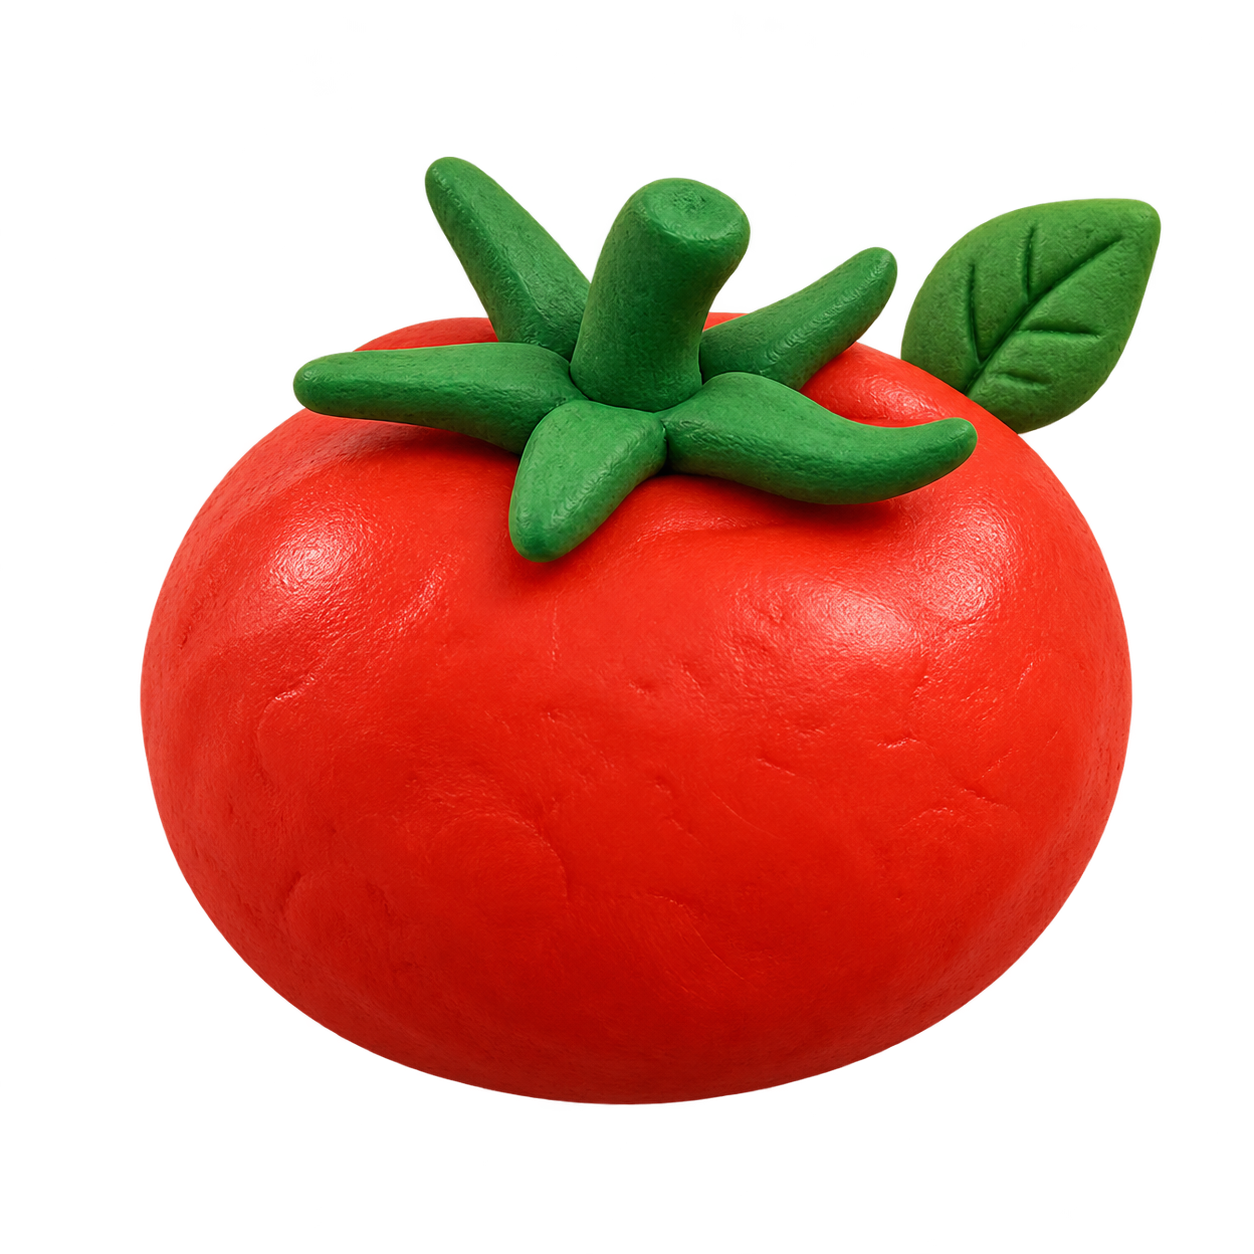
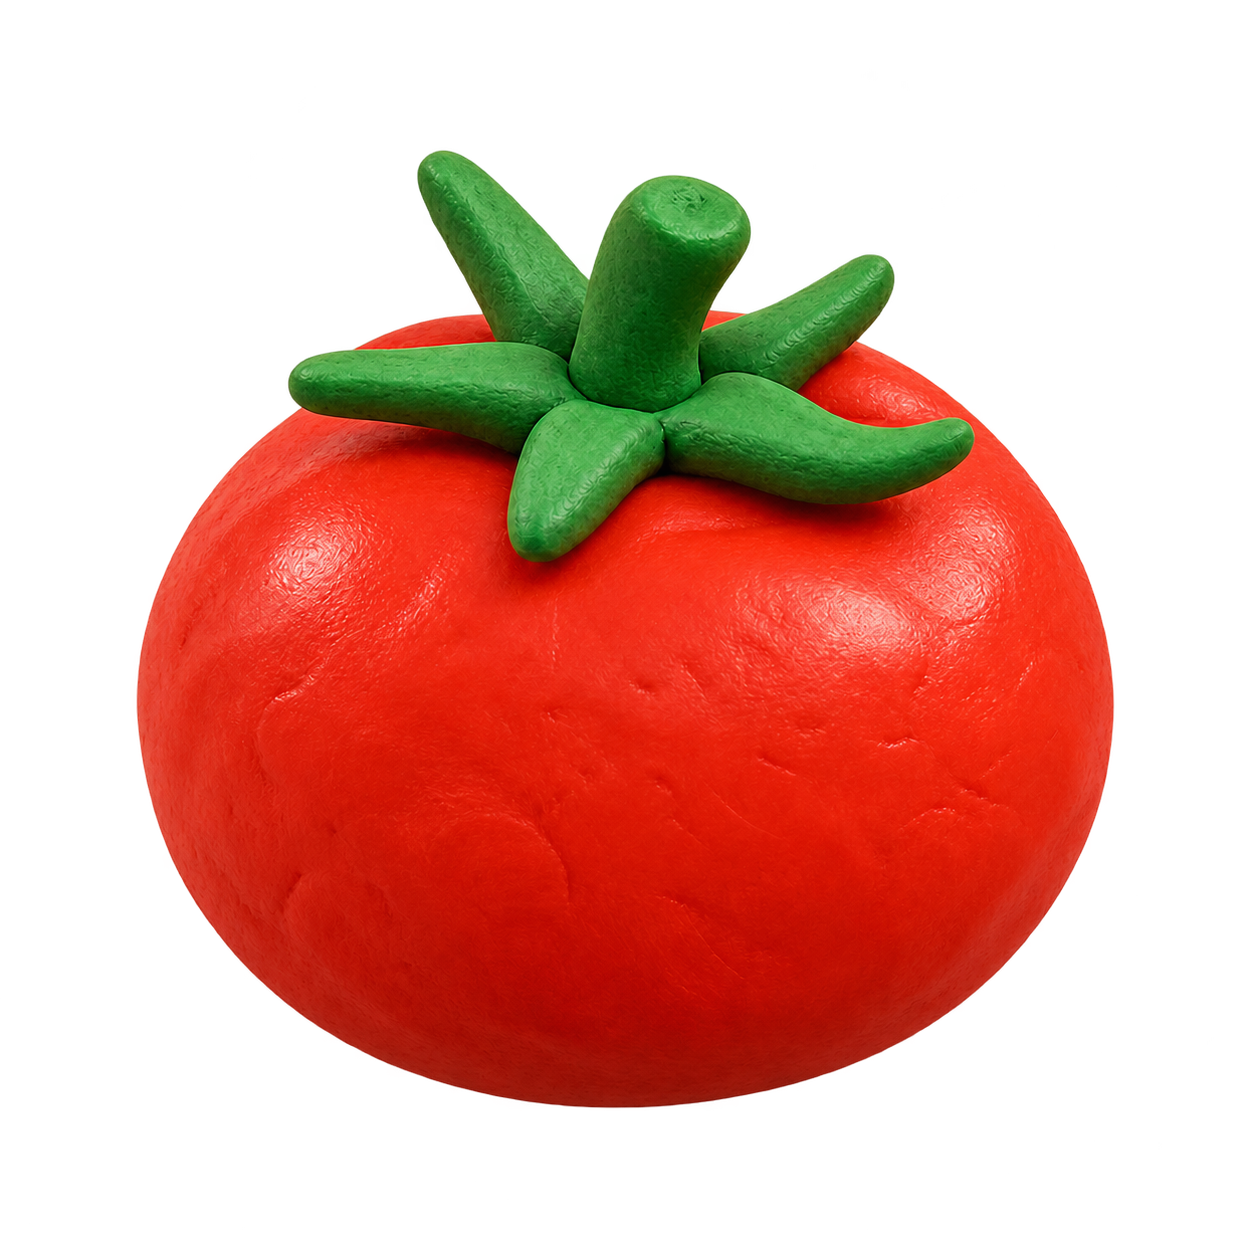
Home lineup: new clay tomato from Jared (Nov 2)
Claude-Session: https://claude.ai/code/session_01J2R4BD6HLiQv8B6i7zkBfA

diff --git a/index.html b/index.html
@@ -358,7 +358,7 @@ src="https://www.facebook.com/tr?id=1606389660991888&ev=PageView&noscript=1"/></
 <section class="band lineup">
   <div class="wrap">
     <div class="center"><p class="eyebrow">The lineup</p><h2>Ten varieties, from classic to conversation piece</h2></div>
-    <ul class="vgrid"><li><img class="cut" src="media/site/veg/tomato.webp" width="360" height="360" loading="lazy" alt="Clay model of a Floradade tomato"><b>Tomato</b> <span>'Floradade'</span></li><li><img class="cut" src="media/site/veg/carrot.webp" width="360" height="360" loading="lazy" alt="Clay model of a Danvers 126 carrot"><b>Carrot</b> <span>'Danvers 126'</span></li><li><img class="cut" src="media/site/veg/cucumber.webp" width="360" height="360" loading="lazy" alt="Clay model of a Marketmore 76 cucumber"><b>Cucumber</b> <span>'Marketmore 76'</span></li><li><img class="cut" src="media/site/veg/kale.webp" width="360" height="360" loading="lazy" alt="Clay model of Red Russian kale"><b>Kale</b> <span>'Red Russian'</span></li><li><img class="cut" src="media/site/veg/spinach.webp" width="360" height="360" loading="lazy" alt="Clay model of Bloomsdale spinach"><b>Spinach</b> <span>'Bloomsdale'</span></li><li><img class="cut" src="media/site/veg/beet.webp" width="360" height="360" loading="lazy" alt="Clay model of a Chioggia beet"><b>Beet</b> <span>'Chioggia'</span></li><li><img class="cut" src="media/site/veg/turnip.webp" width="360" height="360" loading="lazy" alt="Clay model of a Purple Top turnip"><b>Turnip</b> <span>'Purple Top'</span></li><li><img class="cut" src="media/site/veg/eggplant.webp" width="360" height="360" loading="lazy" alt="Clay model of a Black Beauty eggplant"><b>Eggplant</b> <span>'Black Beauty'</span></li><li><img class="cut" src="media/site/veg/pepper.webp" width="360" height="360" loading="lazy" alt="Clay model of an Anaheim chili pepper"><b>Pepper</b> <span>'Anaheim Chili'</span></li><li><img class="cut" src="media/site/veg/melon.webp" width="360" height="360" loading="lazy" alt="Clay model of a Honeydew Orange melon"><b>Melon</b> <span>'Honeydew Orange'</span></li></ul>
+    <ul class="vgrid"><li><img class="cut" src="media/site/veg/tomato.webp" srcset="media/site/veg/tomato.webp 1x, media/site/veg/tomato@2x.webp 2x" width="360" height="360" loading="lazy" alt="Clay model of a Floradade tomato"><b>Tomato</b> <span>'Floradade'</span></li><li><img class="cut" src="media/site/veg/carrot.webp" width="360" height="360" loading="lazy" alt="Clay model of a Danvers 126 carrot"><b>Carrot</b> <span>'Danvers 126'</span></li><li><img class="cut" src="media/site/veg/cucumber.webp" width="360" height="360" loading="lazy" alt="Clay model of a Marketmore 76 cucumber"><b>Cucumber</b> <span>'Marketmore 76'</span></li><li><img class="cut" src="media/site/veg/kale.webp" width="360" height="360" loading="lazy" alt="Clay model of Red Russian kale"><b>Kale</b> <span>'Red Russian'</span></li><li><img class="cut" src="media/site/veg/spinach.webp" width="360" height="360" loading="lazy" alt="Clay model of Bloomsdale spinach"><b>Spinach</b> <span>'Bloomsdale'</span></li><li><img class="cut" src="media/site/veg/beet.webp" width="360" height="360" loading="lazy" alt="Clay model of a Chioggia beet"><b>Beet</b> <span>'Chioggia'</span></li><li><img class="cut" src="media/site/veg/turnip.webp" width="360" height="360" loading="lazy" alt="Clay model of a Purple Top turnip"><b>Turnip</b> <span>'Purple Top'</span></li><li><img class="cut" src="media/site/veg/eggplant.webp" width="360" height="360" loading="lazy" alt="Clay model of a Black Beauty eggplant"><b>Eggplant</b> <span>'Black Beauty'</span></li><li><img class="cut" src="media/site/veg/pepper.webp" width="360" height="360" loading="lazy" alt="Clay model of an Anaheim chili pepper"><b>Pepper</b> <span>'Anaheim Chili'</span></li><li><img class="cut" src="media/site/veg/melon.webp" width="360" height="360" loading="lazy" alt="Clay model of a Honeydew Orange melon"><b>Melon</b> <span>'Honeydew Orange'</span></li></ul>
   </div>
 </section>
 
